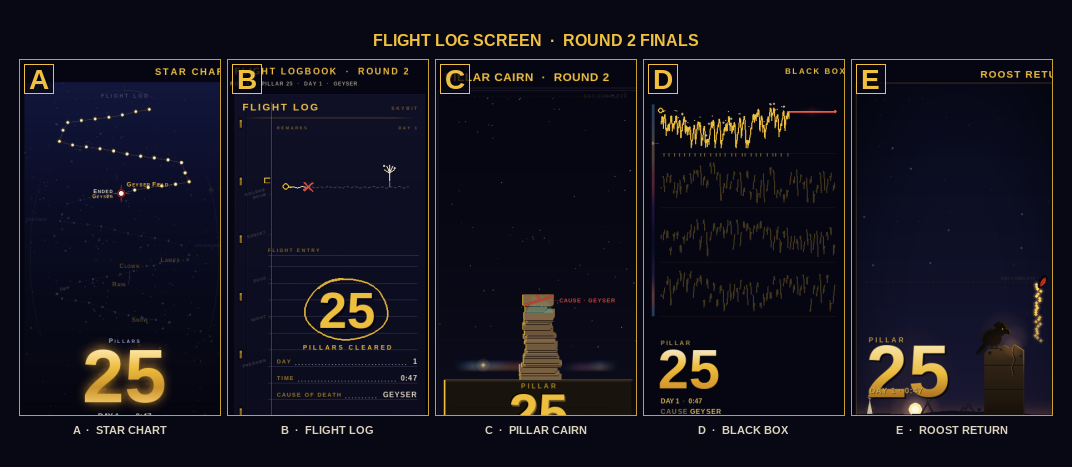
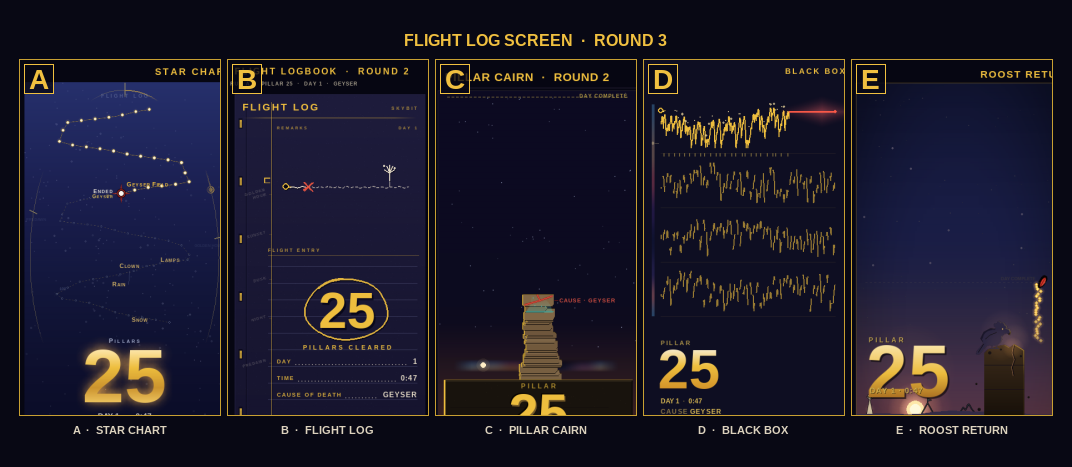
Flight Log screen — round 3: stronger, brighter renders
Key changes per concept:
- star_chart: sky lifted to (40,50,110) zenith; GOLD_SAND→GOLD on asterisms;
  ghost path (110,88,52)→(200,180,110); phase ring alpha 40→140; labels brighter
- flight_logbook: page BG (18,18,40)→(32,30,62); GOLD_MUTED→GOLD; ghost alpha 55→150
- pillar_cairn: warm amber horizon glow; phase marker (200,168,112)→(255,240,200) r=5;
  ceiling rule alpha 28→90 with gold color and DAY COMPLETE label
- black_box: BG (8,8,20)→(16,16,36); glow peak 0.18→0.45 + radius 14→32;
  ghost tail alpha 66→160
- roost_return: DAWN_STOPS restored to vivid cyan→amber→rose (was dark ochre);
  SKY_STOPS lifted; terrain layers (17,16,26)→(52,44,72) visible; sun 3× bigger

diff --git a/tools/render_flight_log_roost_return.py b/tools/render_flight_log_roost_return.py
@@ -36,7 +36,7 @@ pygame.display.set_mode((1, 1))
 ROOT = os.path.dirname(os.path.dirname(os.path.abspath(__file__)))
 FONT_PATH = os.path.join(ROOT, "game", "assets", "LiberationSans-Bold.ttf")
 OUT_DIR = os.path.join(ROOT, "docs", "flight_log_screen", "roost_return")
-OUT_PATH = os.path.join(OUT_DIR, "round_2.png")
+OUT_PATH = os.path.join(OUT_DIR, "round_3.png")
 
 W, H = 360, 640
 SS = 3
@@ -49,24 +49,26 @@ GOLD_HOT = (255, 236, 186)
 SCARLET = (172, 40, 32)
 SCARLET_LIT = (214, 92, 74)
 SCARLET_DEEP = (104, 22, 18)
-SILHOUETTE = (20, 16, 12)
-FAR_WING = (31, 25, 20)
+SILHOUETTE = (48, 42, 68)
+FAR_WING = (30, 26, 46)
 
 SKY_STOPS = [
-    (0.00, (12, 14, 32)),
-    (0.42, (16, 18, 40)),
-    (0.74, (22, 22, 48)),
-    (1.00, (32, 28, 54)),
+    (0.00, (22, 26, 60)),
+    (0.42, (28, 32, 72)),
+    (0.74, (34, 30, 64)),
+    (1.00, (44, 36, 70)),
 ]
 
+# Vivid cyan→amber→rose dawn wash — the defining palette of this concept.
 DAWN_STOPS = [
-    (0.00, (96, 62, 44)),
-    (0.46, (150, 104, 58)),
-    (1.00, (195, 110, 100)),
+    (0.00, (90, 150, 180)),
+    (0.40, (245, 190, 110)),
+    (0.75, (220, 130, 110)),
+    (1.00, (180,  90,  70)),
 ]
 
 # ── scene geometry ───────────────────────────────────────────────────────────
-BAND_TOP, BAND_BOT = 556, 604          # 48px = 7.5% of the canvas
+BAND_TOP, BAND_BOT = 240, 616          # extended dawn wash — vivid cyan at top
 FAR_RIDGE_Y = 594
 NEAR_RIDGE_Y = 608
 LANDMARK_BASE = 596
@@ -273,10 +275,11 @@ def draw_horizon_band(surf, sun_phase):
     # Sun anchored in the left half so it has clear sky, not the ember column
     sun_x = int(min(sun_phase, 0.55) * W + 40)
     sun_y = 588
-    add_glow(surf, sun_x, sun_y, 48, (255, 170, 80), 28, 2.6)
-    add_glow(surf, sun_x, sun_y, 26, (255, 210, 140), 55, 2.0)
-    pygame.draw.circle(surf, (255, 230, 170), (sun_x, sun_y), 12)
-    pygame.draw.circle(surf, (255, 248, 220), (sun_x, sun_y), 7)
+    add_glow(surf, sun_x, sun_y, 70, (220, 100, 40), 20, 2.8)
+    add_glow(surf, sun_x, sun_y, 50, (255, 170, 80), 40, 2.6)
+    add_glow(surf, sun_x, sun_y, 30, (255, 210, 140), 80, 2.0)
+    pygame.draw.circle(surf, (255, 230, 170), (sun_x, sun_y), 16)
+    pygame.draw.circle(surf, (255, 248, 220), (sun_x, sun_y), 10)
     return sun_x, sun_y
 
 
@@ -286,9 +289,9 @@ def ridge_y(x, base, amp, freq, phase):
 
 def draw_terrain(surf):
     far = [(x, ridge_y(x, FAR_RIDGE_Y, 3.0, 0.021, 0.4)) for x in range(0, W + 1, 4)]
-    pygame.draw.polygon(surf, (17, 16, 26), far + [(W, H), (0, H)])
+    pygame.draw.polygon(surf, (52, 44, 72), far + [(W, H), (0, H)])
     near = [(x, ridge_y(x, NEAR_RIDGE_Y, 5.0, 0.013, 2.6)) for x in range(0, W + 1, 4)]
-    pygame.draw.polygon(surf, (9, 8, 14), near + [(W, H), (0, H)])
+    pygame.draw.polygon(surf, (28, 22, 40), near + [(W, H), (0, H)])
 
 
 # ── landmarks ────────────────────────────────────────────────────────────────

diff --git a/tools/render_flight_log_star_chart.py b/tools/render_flight_log_star_chart.py
@@ -74,22 +74,22 @@ def font(size):
 SHEET_BG = (8, 8, 20)
 GOLD = (240, 192, 64)
 GOLD_DIM = (216, 184, 85)
-GOLD_SAND = (162, 128, 68)   # warm sandstone gold for asterism segments
-GHOST_WARM = (110, 88, 52)   # ghost path colour: warm, not grey
+GOLD_SAND = (240, 192,  64)  # bright gold for asterism segments
+GHOST_WARM = (200, 180, 110) # ghost path: bright warm gold
 SCARLET = (172, 40, 32)
 CREAM = (232, 228, 216)
 STAR_WHITE = (250, 244, 228)
 COOL = (126, 140, 178)
-LABEL_DIM = (88, 72, 44)     # unreached landmark labels: solid fill at L≈70
+LABEL_DIM = (200, 170, 100)  # unreached landmark labels: bright warm gold
 
 # Raised the floor in the chart's lower half so unreached stars in the empty
 # sky have actual sky to sit on (they were at +3–5 L over near-black = JND).
 SKY_STOPS = [
-    (0.00, (20, 25, 62)),
-    (0.34, (13, 15, 40)),
-    (0.60, (10, 12, 28)),
-    (0.80, (9, 10, 22)),
-    (1.00, (6, 6, 16)),
+    (0.00, (40, 50, 110)),
+    (0.34, (28, 32,  80)),
+    (0.60, (20, 24,  60)),
+    (0.80, (16, 18,  48)),
+    (1.00, (12, 14,  40)),
 ]
 
 PHASE_BOUNDARIES = [
@@ -407,21 +407,21 @@ def draw_phase_ring(surf, run):
     lay = pygame.Surface((W, H), pygame.SRCALPHA)
 
     ring = [ring_pt(i / 360.0) for i in range(361)]
-    pygame.draw.lines(lay, (100, 92, 54, 42), False, ring, 1)
+    pygame.draw.lines(lay, (180, 160, 90, 100), False, ring, 1)
 
     for frac, _name in PHASE_BOUNDARIES:
-        p0, p1 = ring_pt(frac, 0.965), ring_pt(frac, 1.035)
-        pygame.draw.line(lay, (100, 92, 54, 48), p0, p1, 1)
+        p0, p1 = ring_pt(frac, 0.960), ring_pt(frac, 1.040)
+        pygame.draw.line(lay, (200, 180, 100, 140), p0, p1, 2)
 
     # Travelled arc. A wrapped run paints the whole ring, so "a full day was
     # flown" is legible from the rim alone without a second readout.
     steps = max(2, int(run.total_phase * 360))
     trav = [ring_pt(run.total_phase * i / steps) for i in range(steps + 1)]
-    pygame.draw.lines(lay, (*GOLD, 40), False, trav, 1)
+    pygame.draw.lines(lay, (*GOLD, 140), False, trav, 2)
 
     ex, ey = ring_pt(run.total_phase)
-    pygame.draw.circle(lay, (*GOLD, 40), (int(ex), int(ey)), 3)
-    pygame.draw.circle(lay, (*GOLD, 40), (int(ex), int(ey)), 5, 1)
+    pygame.draw.circle(lay, (*GOLD, 160), (int(ex), int(ey)), 4)
+    pygame.draw.circle(lay, (*GOLD, 140), (int(ex), int(ey)), 7, 2)
 
     lay.blit(rim_mask(), (0, 0), special_flags=pygame.BLEND_RGBA_MULT)
     surf.blit(lay, (0, 0))
@@ -861,7 +861,7 @@ def main():
               f"{len(off)} off-canvas, {len(over_cart)} touching the cartouche")
 
     sheet = render_sheet(panels, captions)
-    path = os.path.join(out_dir, "round_2.png")
+    path = os.path.join(out_dir, "round_3.png")
     pygame.image.save(sheet, path)
     print("saved", path, sheet.get_size())
 

diff --git a/tools/render_flight_log_pillar_cairn.py b/tools/render_flight_log_pillar_cairn.py
@@ -406,7 +406,7 @@ def draw_phase_band(surf, phase, days_done):
     marker = pygame.Surface((30, 30), pygame.SRCALPHA)
     for r, a in ((12, 20), (8, 34), (5, 70)):
         pygame.draw.circle(marker, (255, 226, 158, a), (15, 15), r)
-    pygame.draw.circle(marker, (200, 168, 112), (15, 15), 3)
+    pygame.draw.circle(marker, (255, 240, 200), (15, 15), 5)
     surf.blit(marker, (mx - 15, my - 15))
 
     for d in range(days_done):
@@ -462,7 +462,14 @@ def render_panel(spec):
     surf = pygame.Surface((W, H))
     for y in range(H):
         v = y / (H - 1.0)
-        surf.fill(lerp_color(BG, (16, 15, 30), v ** 1.4), (0, y, W, 1))
+        sky = lerp_color((14, 12, 36), (16, 15, 30), v ** 1.4)
+        # Warm amber glow near the horizon (bottom 35% of sky)
+        if y > int(H * 0.65):
+            hw = (y / (H - 1.0) - 0.65) / 0.35
+            glow = (int(60 * hw), int(28 * hw), int(6 * hw))
+            sky = (min(255, sky[0] + glow[0]), min(255, sky[1] + glow[1]),
+                   min(255, sky[2] + glow[2]))
+        surf.fill(sky, (0, y, W, 1))
 
     rng = random.Random(spec["seed"] + 5)
     for _ in range(70):
@@ -480,12 +487,12 @@ def render_panel(spec):
 
     # Day-complete ceiling: dashed rule at where a full-day run's crown would sit
     full_y = max(10, int(BASE_Y - spec["rise_total"] * 170 / max(1, spec["pillars"])))
-    sky_rule = pygame.Surface((W - 32, 1), pygame.SRCALPHA)
+    sky_rule = pygame.Surface((W - 32, 2), pygame.SRCALPHA)
     for ix in range(0, W - 32, 8):
-        sky_rule.fill((180, 160, 100, 28), (ix, 0, 4, 1))
+        sky_rule.fill((220, 190, 80, 90), (ix, 0, 5, 2))
     surf.blit(sky_rule, (16, full_y))
-    text(surf, "DAY COMPLETE", 8, (100, 86, 52), (W - 20, full_y - 6), "topright",
-         alpha=80, track=1)
+    text(surf, "DAY COMPLETE", 9, (220, 190, 80), (W - 20, full_y - 7), "topright",
+         alpha=200, track=1)
 
     cap = blocks[-1]
     ly = cap["y"] - cap["h"] * 0.5
@@ -542,7 +549,7 @@ for i, spec in enumerate((RUN_A, RUN_B)):
 
 OUT_DIR = os.path.join(ROOT, "docs", "flight_log_screen", "pillar_cairn")
 os.makedirs(OUT_DIR, exist_ok=True)
-OUT = os.path.join(OUT_DIR, "round_2.png")
+OUT = os.path.join(OUT_DIR, "round_3.png")
 pygame.image.save(sheet, OUT)
 
 print("wrote %s  (%dx%d)" % (OUT, SHEET_W, SHEET_H))

diff --git a/tools/render_flight_log_black_box.py b/tools/render_flight_log_black_box.py
@@ -54,7 +54,7 @@ def _font(size):
 
 
 # ── palette ──────────────────────────────────────────────────────────────────
-BG          = (  8,   8,  20)
+BG          = ( 16,  16,  36)
 GOLD        = (240, 192,  64)
 GOLD_MUTED  = (216, 184,  85)
 GOLD_PALE   = (255, 232, 168)
@@ -255,7 +255,7 @@ def render_panel(run):
         if px is not None and li == pl and int((px + x) * 0.5 / 3.0) % 2 == 0:
             pygame.draw.line(ghost, GOLD, (px, py), (x, y), 2)
         px, py, pl = x, y, li
-    ghost.set_alpha(66)
+    ghost.set_alpha(160)
     surf.blit(ghost, (0, 0))
 
     # ── lane baselines: the tape's own rule, faint enough to sit under the
@@ -332,7 +332,7 @@ def render_panel(run):
 
     # ── the flatline: the one scarlet mark, and the whole death report ───────
     # Radial glow baked into RGB channels (BLEND_ADD ignores source alpha).
-    gw, gh = int(dx1 - dx) + 28, 28
+    gw, gh = int(dx1 - dx) + 64, 64
     glow_surf = pygame.Surface((gw, gh))
     glow_surf.fill((0, 0, 0))
     cx_local = gw // 2
@@ -340,10 +340,10 @@ def render_panel(run):
     for gy in range(gh):
         for gx in range(gw):
             dist = abs(gy - cy_local) + 0.3 * abs(gx - cx_local)
-            r_max = 14.0
+            r_max = 32.0
             if dist < r_max:
                 f = (1.0 - dist / r_max) ** 1.8
-                peak = 0.18
+                peak = 0.45
                 rc = int(FLATLINE_SCARLET[0] * f * peak)
                 gc = int(FLATLINE_SCARLET[1] * f * peak)
                 bc = int(FLATLINE_SCARLET[2] * f * peak)
@@ -395,7 +395,7 @@ def main():
         sheet.blit(panel, (MARGIN + k * (W + GAP), MARGIN + HEADER))
         info.append((run, meta))
 
-    out = "/home/user/skybit/docs/flight_log_screen/black_box/round_2.png"
+    out = "/home/user/skybit/docs/flight_log_screen/black_box/round_3.png"
     os.makedirs(os.path.dirname(out), exist_ok=True)
     pygame.image.save(sheet, out)
 

diff --git a/tools/render_flight_log_flight_logbook.py b/tools/render_flight_log_flight_logbook.py
@@ -28,11 +28,11 @@ pygame.display.set_mode((1, 1))
 W, H = 360, 640
 
 BG = (8, 8, 20)
-PAGE_TOP = (18, 18, 40)
-PAGE_BOT = (14, 14, 32)
-PAGE_LIP = (34, 34, 64)
+PAGE_TOP = (32, 30, 62)
+PAGE_BOT = (24, 22, 48)
+PAGE_LIP = (52, 48, 90)
 GOLD = (240, 192, 64)
-GOLD_MUTED = (180, 140, 32)
+GOLD_MUTED = (240, 192, 64)
 INK = (228, 218, 198)
 RULE_BLUE = (108, 112, 156)
 SCARLET = (172, 40, 32)
@@ -351,7 +351,7 @@ def _draw_route(surf, pts, death_frac=1.0):
                     step = min(4 - phase_in_period, remaining)
                     t0 = drawn / seg
                     t1 = (drawn + step) / seg
-                    pygame.draw.line(lay, (*INK, 55),
+                    pygame.draw.line(lay, (*INK, 150),
                                      (int(ax + (bx - ax) * t0), int(ay + (by - ay) * t0)),
                                      (int(ax + (bx - ax) * t1), int(ay + (by - ay) * t1)), 2)
                     drawn += step
@@ -601,7 +601,7 @@ def main():
         os.path.dirname(os.path.abspath(__file__)), os.pardir, "docs",
         "flight_log_screen", "flight_logbook"))
     os.makedirs(out, exist_ok=True)
-    path = os.path.join(out, "round_2.png")
+    path = os.path.join(out, "round_3.png")
     pygame.image.save(sheet, path)
     print("saved", path, sheet.get_size())
     for name, pos in (("sheet bg", (2, 690)), ("page A", (200, 200)),

diff --git a/tools/build_flight_log_screen_showcase.py b/tools/build_flight_log_screen_showcase.py
@@ -55,7 +55,7 @@ font_lbl = pygame.font.Font(FONT_PATH, 11)
 font_id = pygame.font.Font(FONT_PATH, 28)
 
 hdr_text = font_hdr.render(
-    "FLIGHT LOG SCREEN  ·  ROUND 2 FINALS", True, GOLD)
+    "FLIGHT LOG SCREEN  ·  ROUND 3", True, GOLD)
 hdr_x = (CANVAS_W - hdr_text.get_width()) // 2
 hdr_y = MARGIN + (HEADER_H - hdr_text.get_height()) // 2
 surf.blit(hdr_text, (hdr_x, hdr_y))
@@ -66,7 +66,7 @@ for i, slug in enumerate(SLUGS):
     footer_y = panel_y + PANEL_H
     letter = IDS[i]
 
-    src_path = os.path.join(FEATURE_DIR, slug, "round_2.png")
+    src_path = os.path.join(FEATURE_DIR, slug, "round_3.png")
     src = pygame.image.load(src_path)
     sw, sh = src.get_size()
     # The sheet may be wider than one 360×640 panel; crop to the first panel.
